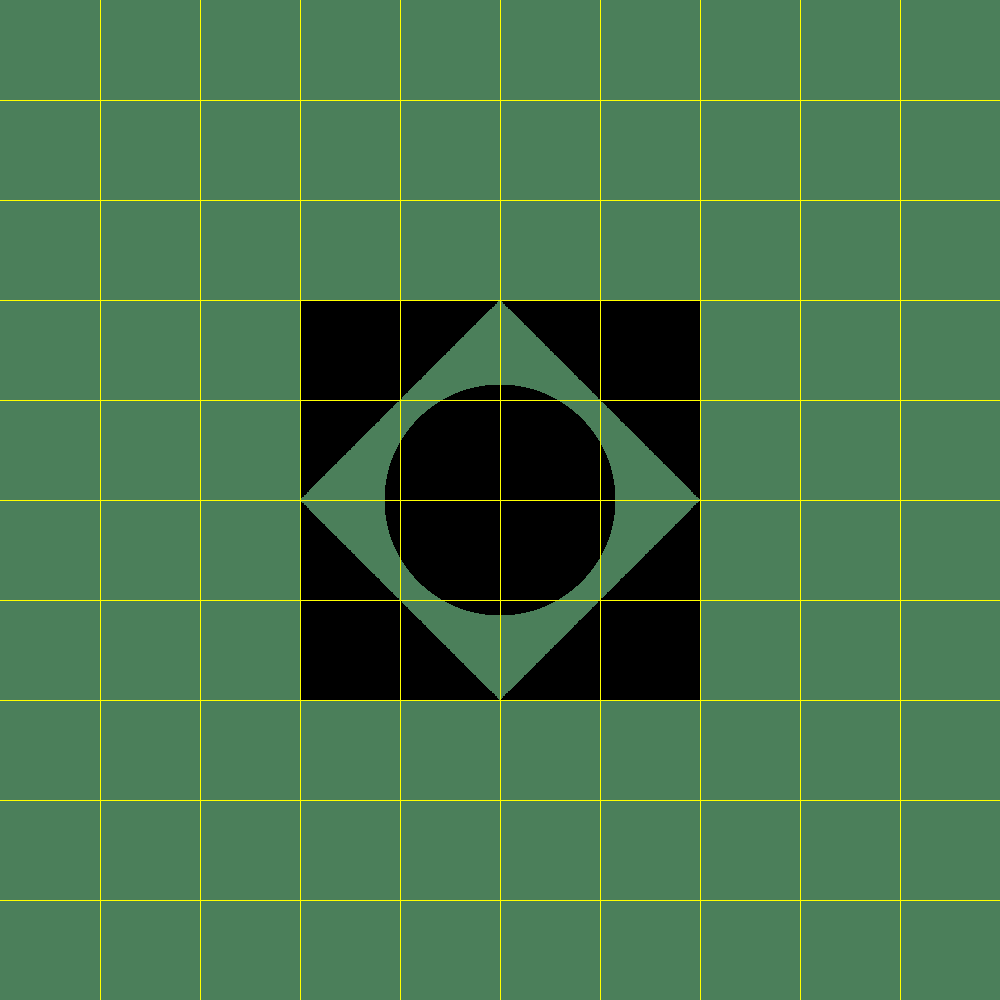
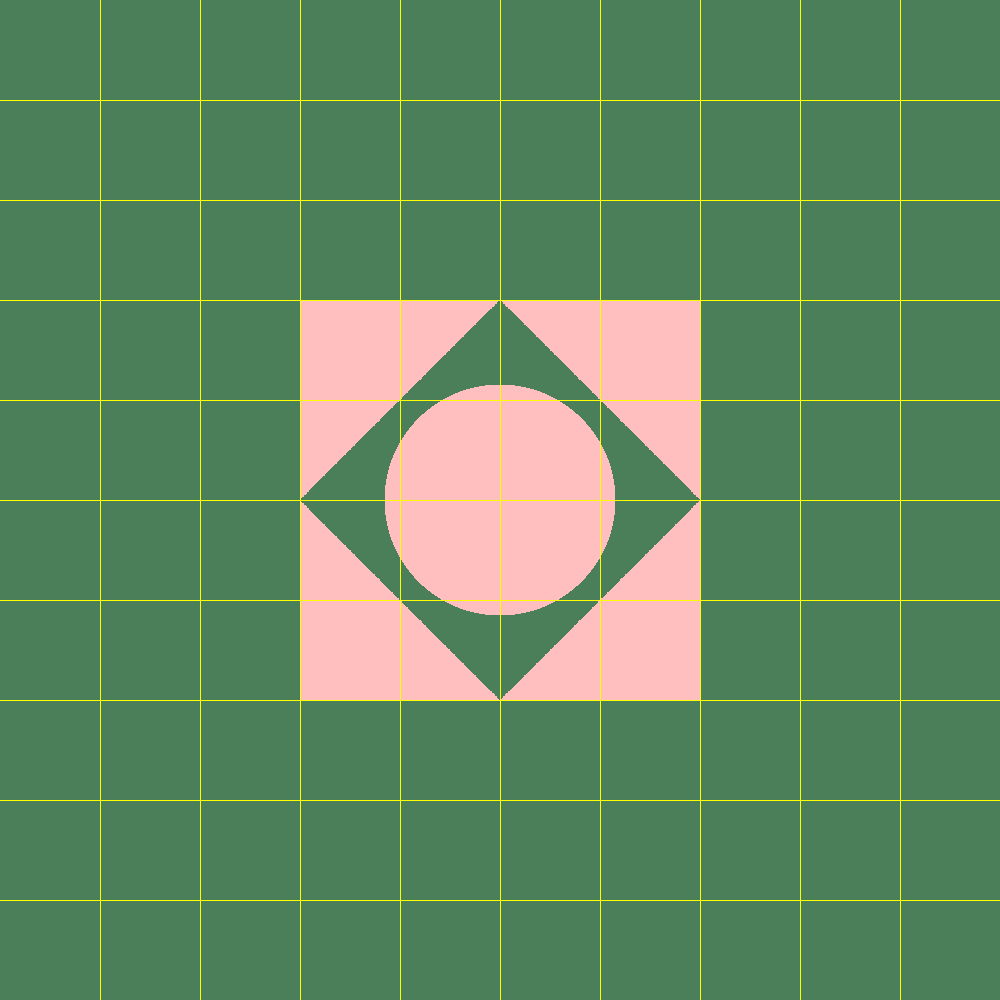
ex 5 done

Changed region(s): [[0.279, 0.279, 0.713, 0.713]]

diff --git a/src/geometries/Tube.java b/src/geometries/Tube.java
@@ -1,6 +1,7 @@
 package geometries;
 
 import java.util.List;
+import static primitives.Util.*;
 
 import primitives.Point3D;
 import primitives.Ray;
@@ -17,7 +18,7 @@ public class Tube implements Geometry {
 
     /**
      * this method return the axisray which runs through the center of the tube
-     * 
+     *
      * @return Ray
      */
     public Ray getAxisRay() {
@@ -26,7 +27,7 @@ public class Tube implements Geometry {
 
     /**
      * This method return the radius fromt he center of the tube to the edge
-     * 
+     *
      * @return double
      */
     public double getRadius() {
@@ -43,7 +44,7 @@ public class Tube implements Geometry {
 
     /**
      * This method return the normal vector to a tube
-     * 
+     *
      * @param gp
      * @return Vector
      */
@@ -53,7 +54,7 @@ public class Tube implements Geometry {
         Point3D o = axisRay.getP0();
         Vector v = axisRay.getDir();
         double t = gp.subtract(o).dotProduct(v);
-        if (t != 0)
+        if (!isZero(t))
             o = o.add(v.scale(t));
         return gp.subtract(o).normalize();
     }
@@ -61,7 +62,7 @@ public class Tube implements Geometry {
     /**
      * This method finds all the intersections between a given Ray and the tube (not
      * implemented yet)
-     * 
+     *
      * @param ray
      * @return List<Point3D>
      */

diff --git a/src/renderer/RayTracerBasic.java b/src/renderer/RayTracerBasic.java
@@ -39,7 +39,7 @@ public class RayTracerBasic extends RayTraceBase {
      */
     private Color calcColor(Point3D point) {
 
-        return Color.BLACK;
+        return scene.ambientLight.getIntensity();
     }
 
 }
